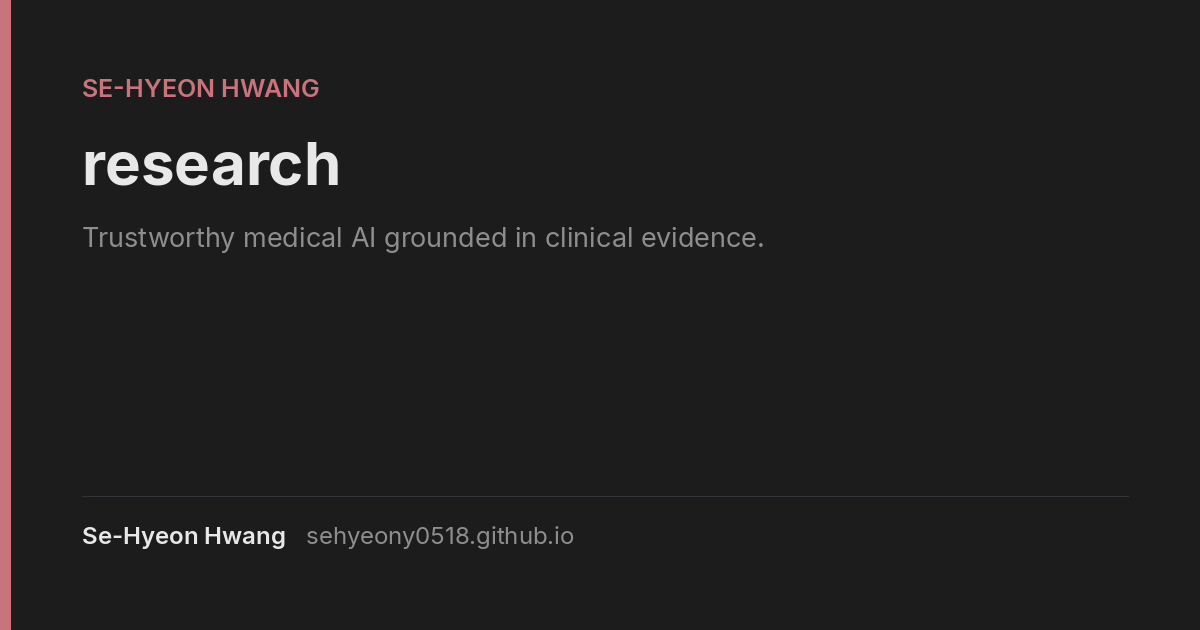
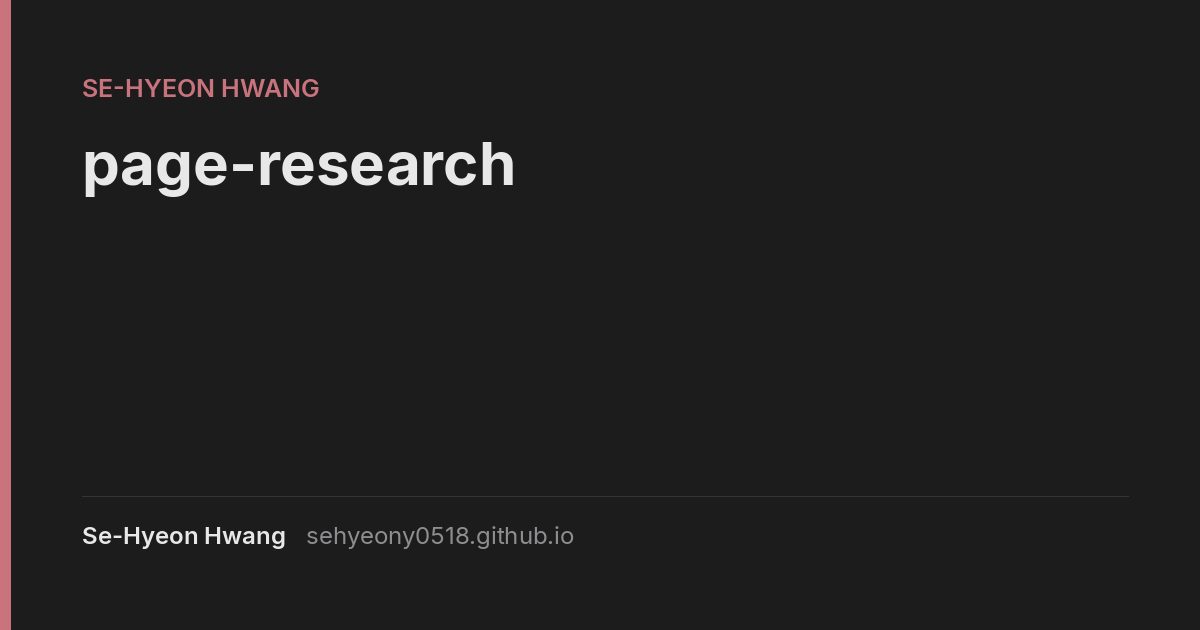
Restate the research identity as human-centered medical AI
The site described two directions, reliable medical AI models and
clinical translation. That named the work but not the field it belongs
to, and it left out the half the owner is most interested in: what
happens between a clinician and a model.

/research/ is now built on the nesting. Human-centered AI asks that
systems be judged by human values, autonomy, understandability and
control. Human-AI alignment and interaction is the part of that about
bringing a person's and a model's goals, concepts, judgments and trust
into correspondence. Medical AI and clinical decision support is where
those questions get asked here.

Under it, five questions, stated as questions rather than as claims to
already work on all of them:

1. Concept-based interpretability. Does a model use the clinical
   concepts an expert would name? This is where the M.S. work sits.
2. Clinical value alignment. A false negative and a false positive are
   not the same event in a clinic, so what should a model optimize?
3. Bidirectional alignment. Not a clinician who agrees with the model,
   but one who knows accurately where to rely on it and where not to.
4. Human-AI interaction in clinical decision making. The one that cannot
   be answered on a benchmark: explanations may raise accuracy, or may
   only raise trust.
5. Human-centered mental health AI, with the SCID-5 Module J agent as a
   first prototype against those questions.

The clinical half keeps its own section rather than becoming background.
[…]

Changed region(s): [[0.0617, 0.2111, 0.4317, 0.3317], [0.0617, 0.3619, 0.6475, 0.3921]]

diff --git a/bin/build_og_images.py b/bin/build_og_images.py
@@ -55,13 +55,13 @@ PAGES = {
 HOME = {
     "name": "Se-Hyeon Hwang",
     "name_ko": "황세현",
-    "tagline": "Medical XAI Researcher",
-    "blurb": "Whether a diagnostic model's accuracy comes from clinically valid "
-             "evidence or from shortcuts, and how to make that reliance measurable.",
-    # The two directions the home page states, as its own two columns.
+    "tagline": "Human-Centered Medical AI",
+    "blurb": "Whether a clinical model uses the concepts an expert would name, whether it "
+             "optimizes what the task is for, and what happens when a clinician works with one.",
+    # The two halves the home page states, as its own two columns.
     "columns": [
-        ("Reliable medical AI", "Evidence auditing, shortcut learning, faithfulness"),
-        ("Clinical translation", "Disease, imaging findings, diagnostic reasoning"),
+        ("Alignment", "Clinical concepts, value, appropriate reliance"),
+        ("Clinical grounding", "Disease, imaging findings, diagnostic reasoning"),
     ],
     "foot": "M.S. student  /  Ajou University  /  Embedded & Software Lab",
 }
@@ -235,18 +235,20 @@ def render_home(stem):
         t_line.draw((x, y), line, MUTED)
         y += 41
 
-    # Two columns, as the page states its two directions.
-    y += 26
+    # The lower block is laid out from the bottom up, so a longer blurb cannot
+    # push the columns into the affiliation line.
+    foot_y = H - PAD - 96
+    col_y = foot_y - 92
     col_w = (inner - 56) // 2
     f_head = font("Inter-SemiBold.ttf", 24)
     f_sub = font("Inter-Regular.ttf", 21)
     for i, (head, sub) in enumerate(HOME["columns"]):
         cx = x + i * (col_w + 56)
-        d.line([(cx, y), (cx + col_w, y)], fill=RULE, width=1)
-        d.text((cx, y + 16), head, font=f_head, fill=INK)
-        d.text((cx, y + 48), sub, font=f_sub, fill=MUTED)
+        d.line([(cx, col_y), (cx + col_w, col_y)], fill=RULE, width=1)
+        d.text((cx, col_y + 16), head, font=f_head, fill=INK)
+        d.text((cx, col_y + 48), sub, font=f_sub, fill=MUTED)
 
-    d.text((x, H - PAD - 96), HOME["foot"], font=font("Inter-Regular.ttf", 23), fill=MUTED)
+    d.text((x, foot_y), HOME["foot"], font=font("Inter-Regular.ttf", 23), fill=MUTED)
     footer(d, x)
     OUT.mkdir(parents=True, exist_ok=True)
     img.save(OUT / f"{stem}.png", optimize=True)

diff --git a/_pages/research.md b/_pages/research.md
@@ -3,31 +3,66 @@ layout: page
 permalink: /research/
 title: research
 og_image: "https://sehyeony0518.github.io/assets/img/og/page-research.png"
-description: Trustworthy medical AI grounded in clinical evidence.
+description: Human-centered medical AI: aligning what a model learns with clinical concepts and human values, and studying how clinicians and models decide together.
 nav: true
 nav_order: 7
 ---
 <a href="/assets/pdf/cv-hwang.pdf" target="_blank" rel="noopener" style="display:inline-block; margin:.2rem 0 .8rem; padding:.4rem 1rem; border:1px solid var(--global-theme-color); border-radius:999px; color:var(--global-theme-color); text-decoration:none; font-size:.85rem; font-weight:600;">⬇ Download CV (PDF)</a>
 
-I study the reliability of medical image classifiers: whether a model's accuracy rests on evidence a clinician would recognize as relevant, and how that question can be examined rather than assumed.
+I work on **human-centered medical AI**: training and evaluating clinical models so that what they learn corresponds to clinical concepts and human values, and studying how clinicians and models arrive at better decisions together than either does alone.
 
-The work runs in two directions. **Reliable medical AI models** asks what a diagnostic model is actually responding to and when that response can be trusted. **Clinical translation** is the medical study that gives the first question something to check against. My M.S. research at Ajou University, advised by Prof. Jung-Won Lee in the Embedded & Software Lab, sits where the two meet, in ultrasound diagnosis.
+The field sits inside a larger one. **Human-centered AI** asks that systems be designed and judged by human values, autonomy, understandability and controllability. **Human-AI alignment and interaction** is the part of it that asks how the goals, concepts, judgments and trust of a person and a model can be brought into correspondence. **Medical AI and clinical decision support** is where I ask those questions: imaging diagnosis, clinical decision making, mental health, and the working relationship between a clinician and a model.
 
-## Reliable Medical AI Models
+### Accuracy is not the whole question
 
-A classifier can reach good diagnostic accuracy using features whose relationship to disease depends on how the images were acquired or selected rather than on the disease itself. Hospital-specific formatting, measurement markers, and acquisition settings can all carry predictive signal, and a random split preserves those relationships in training and test alike, so an evaluation can look successful while leaving the question untouched.
+Suppose a radiologist is handed a lung nodule flagged by a model that detects cancer at 95 percent accuracy. Several things can still be wrong, and none of them is a performance number.
 
-My interest is in the gap between a model's stated evidence and its actual reliance. An explanation that looks anatomically reasonable is not thereby faithful to the computation, and a readout that correlates with a clinical factor has not thereby been shown to drive the prediction. I work on how those distinctions can be made measurable, and on what has to hold before a result counts as evidence rather than a plausible picture.
+- The model may have learned a burned-in marker or a property of the scanner rather than the lesion.
+- The radiologist may not be able to tell why it decided what it decided.
+- The radiologist may defer to it where their own reading was better.
+- The radiologist may see something the model missed, with no way to give that back.
 
-The same question extends to generalization. Performance that holds on internal data can fail across hospitals, devices, and patient populations, and stable aggregate accuracy can hide a change in what the model is responding to.
+These are not failures of the classifier. They are failures of alignment between a person and a model, and they are what I want to work on.
 
-## Clinical Translation
+## Five questions I am working on
 
-The clinical half is not a supporting activity. Terms like clinically meaningful evidence have no content until the medicine behind them is understood, and without that content there is nothing for an audit to check against.
+### 1. Concept-based interpretability
 
-So I study the diseases, the imaging findings, and the diagnostic reasoning that produce a diagnosis: which features a radiologist reads and in what order, which findings are interpreted together, what a reference standard does and does not establish, and how patients who receive one workup differ from those who receive another. I also study ultrasound acquisition itself, since operator, machine, and preset variation are a property of the examination rather than of the patient, and telling those apart is a prerequisite for calling anything a shortcut.
+Does a model actually use the clinical concepts an expert would name?
 
-My [study notes](/study/) cover both directions in more detail, and my [publications](/publications/) list the work that has appeared.
+Saliency tells you where a model looked. A clinician wants to know something else: whether the lesion border is irregular, whether the tissue architecture is abnormal, whether a particular pattern is present, and how much each of those contributed to the diagnosis. The question is whether a link can be built between concepts a person holds and the representations a model computes, and what has to hold before such a link counts as evidence rather than a plausible picture.
+
+This is where my M.S. work sits. An explanation that looks anatomically reasonable is not thereby faithful to the computation, and a readout that correlates with a clinical factor has not thereby been shown to drive the prediction. Making those distinctions measurable is the problem.
+
+### 2. Clinical value alignment
+
+What makes a medical model good, if not accuracy?
+
+A false negative and a false positive are not the same event in a clinic. Missing a cancer and sending a healthy patient for an unnecessary workup carry different costs, borne by different people, and the balance between them changes with the disease, the setting and the stage of care. So the question is whether what a model optimizes corresponds to what the clinical task is actually for: which operating point, measured against which cost, for which population.
+
+### 3. Bidirectional human-AI alignment
+
+Alignment has usually meant moving the model toward the person. The harder version runs both ways: the clinician's knowledge, criteria and reasons should reach the model, and the model's uncertainty, grounds and failure modes should reach the clinician.
+
+The aim is not a clinician who agrees with the model. It is a clinician who knows accurately what it is good at and what it is not, and who can therefore rely on it or override it in the right places.
+
+### 4. Human-AI interaction in clinical decision making
+
+The previous three can be studied on a benchmark. This one cannot. It asks what happens when a clinician and a model actually work together, and it is answered by experiment: compare a reader given only the model's output against a reader given its output with concept-level grounds, and measure not only diagnostic accuracy but confidence, over-reliance, and how judgments change.
+
+The uncomfortable possibility is the interesting one. Explanations may raise accuracy, or they may simply raise trust, including where trust is not warranted. Which of those happens is an empirical question about a workflow, not a property of an algorithm.
+
+### 5. Human-centered mental health AI
+
+Mental health is where human values and interaction matter most and where classification alone is least sufficient, because the evidence is the patient's language, affect, context and subjective experience.
+
+For an LLM-administered assessment the questions are concrete. Does it extract the clinically significant content from what the patient said? Does its next question follow from the answer it was given? Where do its judgments agree with a clinician's and where do they diverge? Can the patient understand what it is asking and say what they mean? And does it ever hold a wrong conclusion confidently enough to lead a patient toward it? My [SCID-5 Module J agent](https://github.com/sehyeony0518/scid5-module-j-agent) is a first prototype against these questions.
+
+## The clinical half is not support work
+
+None of the five questions has content without the medicine. "Clinically valid evidence" and "clinical value" are empty phrases until someone knows what a radiologist reads and in what order, which findings are interpreted together, what a reference standard does and does not establish, and how patients who receive one workup differ from those who receive another.
+
+So I study that directly, along with ultrasound acquisition itself, because operator, machine and preset variation is a property of the examination rather than of the patient, and telling those apart is a prerequisite for calling anything a shortcut. My [study notes](/study/) cover this alongside the computational side, and my [publications](/publications/) list the work that has appeared.
 
 ## Selected Projects
 

diff --git a/_pages/about.md b/_pages/about.md
@@ -36,4 +36,4 @@ blog_preview: true
 
 Hi, I am **Se-Hyeon Hwang (황세현)**, an M.S. student in the Department of AI Convergence Network at [Ajou University](https://www.ajou.ac.kr/en/index.do), advised by [Prof. Jung-Won Lee](https://scholar.google.com/citations?user=9sVITQIAAAAJ&hl=en) at the [Embedded & Software Lab](https://eslab.ajou.ac.kr/). I am preparing PhD applications, and my [publications](/publications/) and [CV](/assets/pdf/cv-hwang.pdf) are available here.
 
-My [research](/research/) runs in two directions. In **reliable medical AI models** I examine whether diagnostic accuracy comes from clinically valid evidence or from shortcuts, and work on making that reliance measurable. In **clinical translation** I study the diseases, imaging findings, and diagnostic reasoning across medical imaging that give clinical evidence its content. My [study notes](/study/) cover both.
+My [research](/research/) is in **human-centered medical AI**: training and evaluating clinical models so that what they learn corresponds to clinical concepts and human values, and studying how clinicians and models decide better together than either does alone. That covers whether a model uses the concepts an expert would name, whether what it optimizes matches what the clinical task is for, and what actually happens when a clinician works with one. The medicine is not background to this: terms like clinically valid evidence have no content until the diseases, findings and diagnostic reasoning behind them are understood. My [study notes](/study/) cover both sides.
